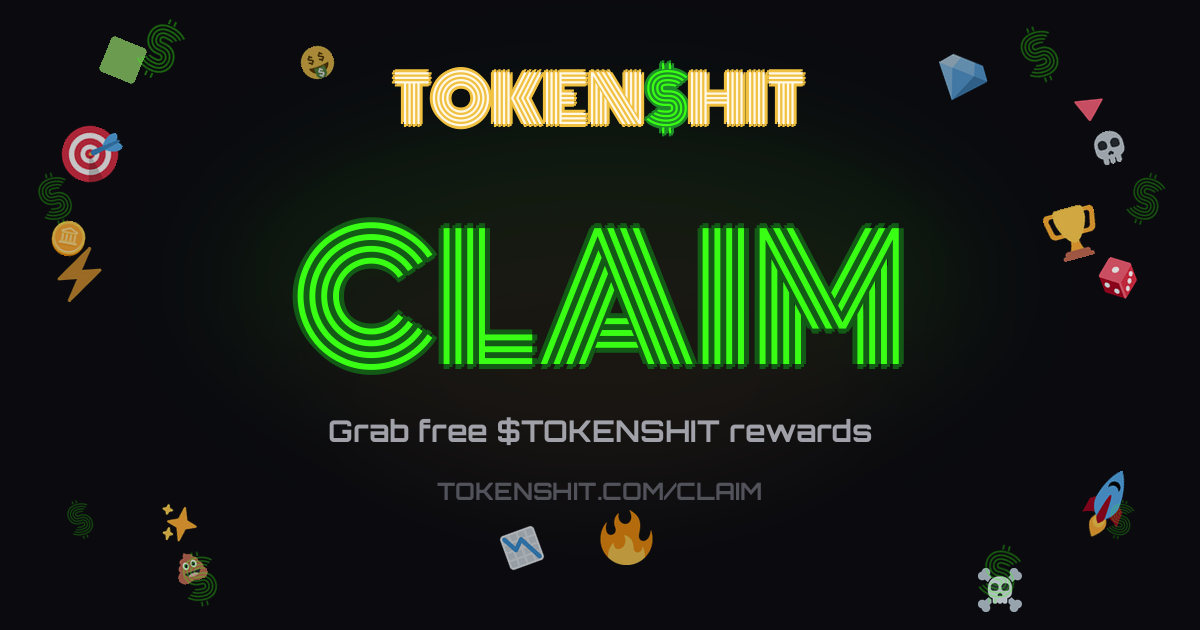
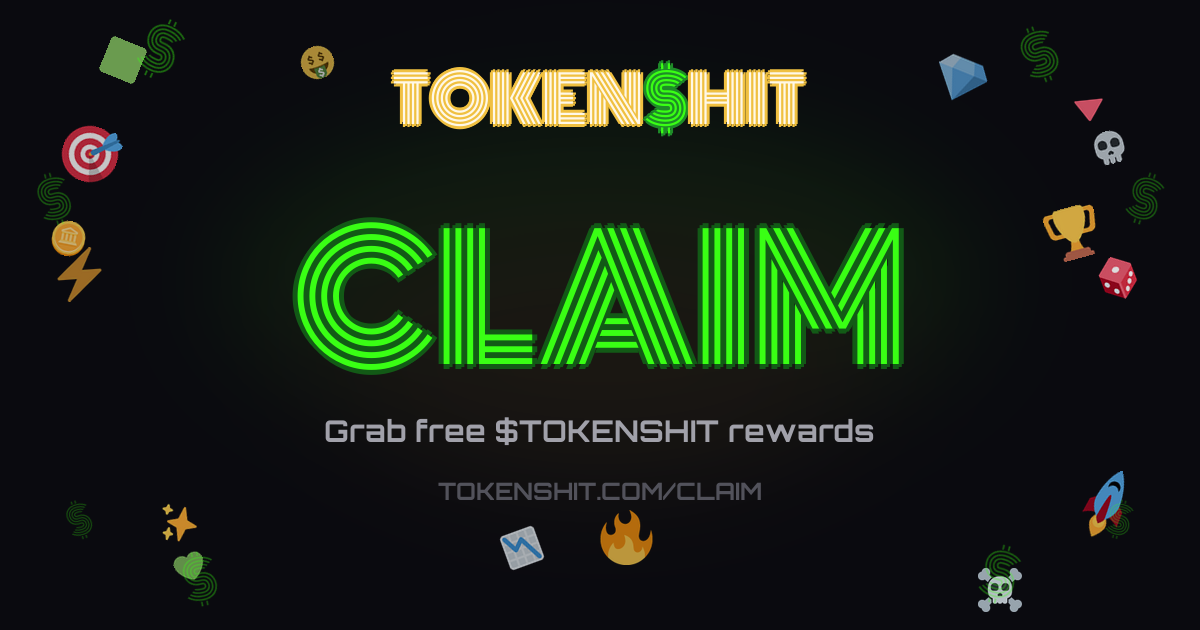
feat: Play OG is PLAY FOR PRIZES

diff --git a/src/lib/seo.ts b/src/lib/seo.ts
@@ -4,7 +4,7 @@ import { SHIT_MINT, SHIT_SYMBOL, TREASURY_ADDRESS, X_HANDLE } from "@/lib/shit-t
 
 const SITE = "https://tokenshit.com";
 /** Cache-bust when OG pack regenerates */
-const OG_V = "8";
+const OG_V = "9";
 
 export type OgKey =
   | "default"
@@ -56,7 +56,7 @@ export const defaultMetadata: Metadata = {
     template: "%s · TOKEN$HIT",
   },
   description:
-    "Every token is shit until proven otherwise. Play $HIT OF THE DAY, vote HIT or SHIT on Solana assets, claim rewards, swap $TOKENSHIT.",
+    "Every token is shit until proven otherwise. Play PLAY FOR PRIZES, vote HIT or SHIT on Solana assets, claim rewards, swap $TOKENSHIT.",
   applicationName: "TOKEN$HIT",
   authors: [{ name: "TOKEN$HIT", url: SITE }],
   creator: "@Tokenshit_",
@@ -78,7 +78,7 @@ export const defaultMetadata: Metadata = {
     siteName: "TOKEN$HIT",
     title: "TOKEN$HIT — Every token is shit until proven otherwise",
     description:
-      "Play $HIT OF THE DAY. Vote HIT or SHIT on real Solana assets. Claim, swap, whales.",
+      "Play FOR PRIZES. Vote HIT or SHIT on real Solana assets. Claim, swap, whales.",
     images: [SITE_OG],
   },
   twitter: {
@@ -87,7 +87,7 @@ export const defaultMetadata: Metadata = {
     creator: "@Tokenshit_",
     title: "TOKEN$HIT — Every token is shit until proven otherwise",
     description:
-      "Play $HIT OF THE DAY. Vote HIT or SHIT on real Solana assets.",
+      "Play FOR PRIZES. Vote HIT or SHIT on real Solana assets.",
     images: [OG],
   },
   icons: {

diff --git a/src/lib/hour-product.ts b/src/lib/hour-product.ts
@@ -1,22 +1,22 @@
 /**
- * Product brand: $HIT OF THE DAY (in-app)
- * Tweets / X copy: SH!T OF THE DAY (reads as SHIT, not $HIT)
+ * Product brand: PLAY FOR PRIZES (in-app + OG)
+ * Tweets / X copy: SH!T (reads as SHIT, not $HIT)
  * Game sides remain HIT / SHIT (mechanics).
  */
 export const PLAY_PRODUCT = {
   /** Full product name (UI) */
-  name: "$HIT OF THE DAY",
+  name: "PLAY FOR PRIZES",
   /** X / tweet / share product name */
-  tweetName: "SH!T OF THE DAY",
+  tweetName: "PLAY FOR PRIZES",
   /** Display without ticker $ for Monoton split if needed */
-  nameDisplay: "HIT OF THE DAY",
+  nameDisplay: "PLAY FOR PRIZES",
   /** Short nav label */
   nav: "Play",
   /** One-liner */
-  tagline: "Call HIT or SHIT. Play the bag.",
+  tagline: "FREE. 1 UP + 1 DOWN. Win the hour.",
   /** Rules blurb */
   blurb:
-    "1,000 $TOKENSHIT · house spark in the bag · best % HIT pot · worst % SHIT pot · prize split · 25% house",
+    "FREE Play · 1 UP + 1 DOWN per hour · hold 10,000 · follow @Tokenshit_ · 10,000 $TOKENSHIT / hour · jackpot rolls",
   /** Canonical public paths */
   path: "/play",
   winnersPath: "/winners",

diff --git a/scripts/generate-og-pack.py b/scripts/generate-og-pack.py
@@ -33,7 +33,7 @@ DIM = (82, 82, 91)
 SCATTER_EMOJI = [
     "1f3af",
     "1f480",
-    "1f4a9",
+    "1f49a",
     "1f680",
     "1f48e",
     "1f525",
@@ -67,7 +67,7 @@ ROUTES = [
     ("claim", "CLAIM", "Grab free $TOKENSHIT rewards", "tokenshit.com/claim"),
     ("claims", "CLAIM", "Grab free $TOKENSHIT rewards", "tokenshit.com/claim"),
     ("memes", "MEMES", "Make shit memes. Share the bag.", "tokenshit.com/memes"),
-    ("play", "PLAY", "$SHIT OF THE DAY · hourly pot", "tokenshit.com/play"),
+    ("play", "PLAY FOR PRIZES", "FREE  |  1 UP + 1 DOWN  |  10,000 / HR", "tokenshit.com/play"),
     ("whales", "WHALES", "Top 50 holders · movements", "tokenshit.com/whales"),
     ("winners", "WINNERS", "Hourly pot winners & VRF", "tokenshit.com/winners"),
     ("swap", "SWAP", "Trade $TOKENSHIT on Solana", "tokenshit.com/swap"),
@@ -78,8 +78,8 @@ ROUTES = [
     ("search", "SEARCH", "Find any Solana token · HIT or SHIT", "tokenshit.com/search"),
     ("terms", "TERMS", "Rules of the shitshow", "tokenshit.com/terms"),
     ("privacy", "PRIVACY", "How we handle your data", "tokenshit.com/privacy"),
-    ("day", "PLAY", "$SHIT OF THE DAY · hourly pot", "tokenshit.com/play"),
-    ("hour", "PLAY", "$SHIT OF THE DAY · hourly pot", "tokenshit.com/play"),
+    ("day", "PLAY FOR PRIZES", "FREE  |  1 UP + 1 DOWN  |  10,000 / HR", "tokenshit.com/play"),
+    ("hour", "PLAY FOR PRIZES", "FREE  |  1 UP + 1 DOWN  |  10,000 / HR", "tokenshit.com/play"),
 ]
 
 CACHE = Path("/tmp/tokenshit-twemoji")

diff --git a/scripts/generate-play-poster.py b/scripts/generate-play-poster.py
@@ -338,7 +338,7 @@ def build() -> Image.Image:
 
     # rules card
     rules = [
-        ("FREE to play", "No stake  |  lock up to 5 bags at once"),
+        ("FREE to play", "No stake  |  1 UP + 1 DOWN per hour"),
         ("Hold 10,000 $TOKENSHIT", "Keep your claims  |  don't dump"),
         ("Follow @Tokenshit_", "Required before you Play"),
         ("Call UP or DOWN", "Best % = HIT  |  worst % = SHIT"),
